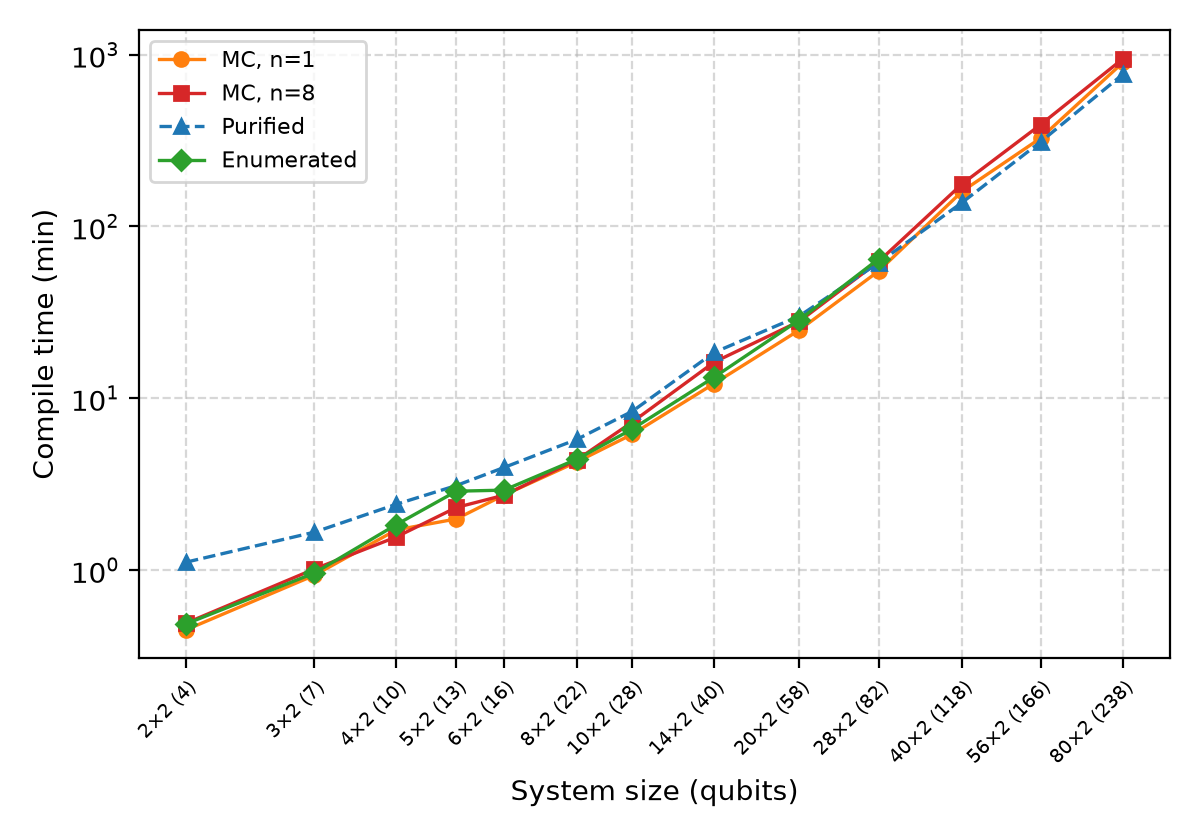
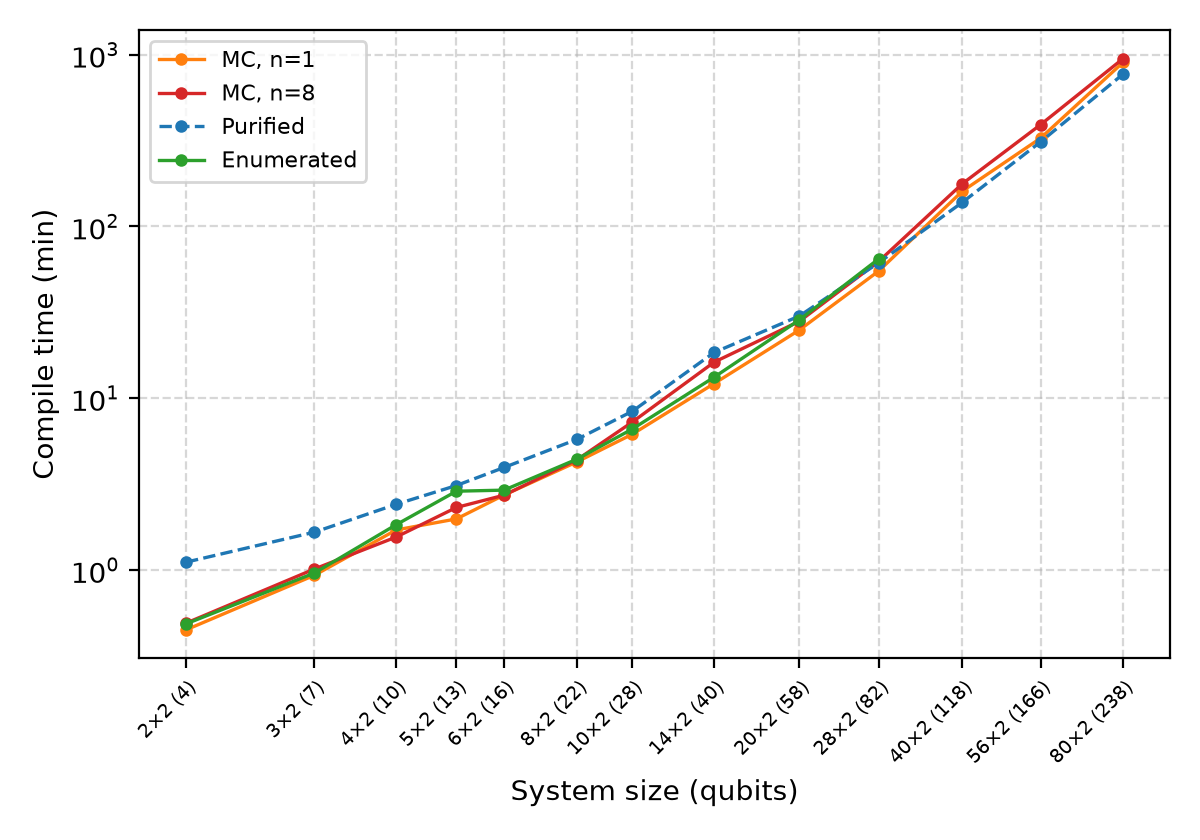
exp1_compare: simpler cost plots
One marker shape (circles) everywhere; small dots for the exact methods and
for MC runs without sigma, larger sigma-filled circles only for MC with sigma,
hollow only for failed runs. The grey 'no sigma' fill read as hollow.

diff --git a/src/experiments/exp1_compare.py b/src/experiments/exp1_compare.py
@@ -93,15 +93,13 @@ def plot_cost_vs_size(rows, out_dir, plt):
     from matplotlib.colors import Normalize
     sig = [r["final_sigma_mean"] for r in rows if r.get("final_sigma_mean") is not None]
     norm = Normalize(vmin=0.0, vmax=max(sig) if sig and max(sig) > 0 else 1.0)
-    cmap = plt.get_cmap("viridis").copy()
-    # No sigma available (e.g. 80x2 MC): light grey face. Not white, which would
-    # read as the hollow markers used for failed runs.
-    cmap.set_bad("0.8")
+    cmap = plt.get_cmap("viridis")
 
-    def sig(r):
-        v = r.get("final_sigma_mean")
-        return np.nan if v is None else v
-
+    # One marker shape throughout; the line colour says which method it is.
+    #  - exact methods (sigma = 0 always): small solid dots in the line colour
+    #  - MC with sigma: larger circles filled by sigma (the colour bar)
+    #  - MC without sigma (e.g. 80x2): small solid dots, like the exact methods
+    #  - failed runs: the only hollow marker
     for key, ylabel, fname in COST_METRICS:
         have = [r for r in rows if r.get(key) is not None]
         if not have:
@@ -113,19 +111,21 @@ def plot_cost_vs_size(rows, out_dir, plt):
                         key=lambda r: r["n_qubits"])
             if ok:
                 ax.plot([r["n_qubits"] for r in ok], [r[key] for r in ok],
-                        color=colour, lw=1.2, label=label, zorder=1)
-                ax.scatter([r["n_qubits"] for r in ok], [r[key] for r in ok],
-                           c=[sig(r) for r in ok], cmap=cmap, norm=norm, plotnonfinite=True,
-                           marker=MARKERS[m], s=55, edgecolors=colour, linewidths=1.2,
-                           zorder=2)
+                        color=colour, lw=1.2, label=label, zorder=1,
+                        marker="o", ms=3.5)
+                if m.startswith("mc"):
+                    sig = [r for r in ok if r.get("final_sigma_mean") is not None]
+                    ax.scatter([r["n_qubits"] for r in sig], [r[key] for r in sig],
+                               c=[r["final_sigma_mean"] for r in sig], cmap=cmap, norm=norm,
+                               marker="o", s=45, edgecolors=colour, linewidths=1.0, zorder=2)
             # Failed runs: hollow marker at the failing size, plotted at the
             # method's last successful value so the axis stays meaningful.
             failed = [r for r in rows if r["method"] == m and r["status"] != "ok"]
             for r in failed:
                 prev = [o for o in ok if o["n_qubits"] < r["n_qubits"]]
                 if prev:
-                    ax.scatter([r["n_qubits"]], [prev[-1][key]], marker=MARKERS[m], s=55,
-                               facecolors="none", edgecolors=colour, linewidths=1.2)
+                    ax.scatter([r["n_qubits"]], [prev[-1][key]], marker="o", s=45,
+                               facecolors="none", edgecolors=colour, linewidths=1.2, zorder=2)
         ax.set_yscale("log")
         ax.set_ylabel(ylabel)
         size_axis(ax, rows)
@@ -191,7 +191,7 @@ def plot_convergence(rows, out_dir, plt):
             x = np.array([p[0] for p in pts]) + (i - 1.5) * 0.12   # small dodge
             y = np.array([p[1] for p in pts])
             err = np.array([[p[1] - p[2] for p in pts], [p[3] - p[1] for p in pts]])
-            ax.errorbar(x, y, yerr=err, color=colour, marker=MARKERS[m], capsize=3,
+            ax.errorbar(x, y, yerr=err, color=colour, marker="o", ms=3.5, capsize=3,
                         lw=1.2, label=label)
         if not any_data:
             plt.close(fig)
@@ -236,7 +236,7 @@ def plot_per_size(rows, out_dir, plt):
                 continue
             drawn = True
             ax.plot([r["n_qubits"] for r in ok], [r[key] * scale for r in ok], color=colour,
-                    marker=MARKERS[m], ms=5, lw=1.2, label=label,
+                    marker="o", ms=3.5, lw=1.2, label=label,
                     ls="--" if m == "purified" else "-")
         if not drawn:
             plt.close(fig)
